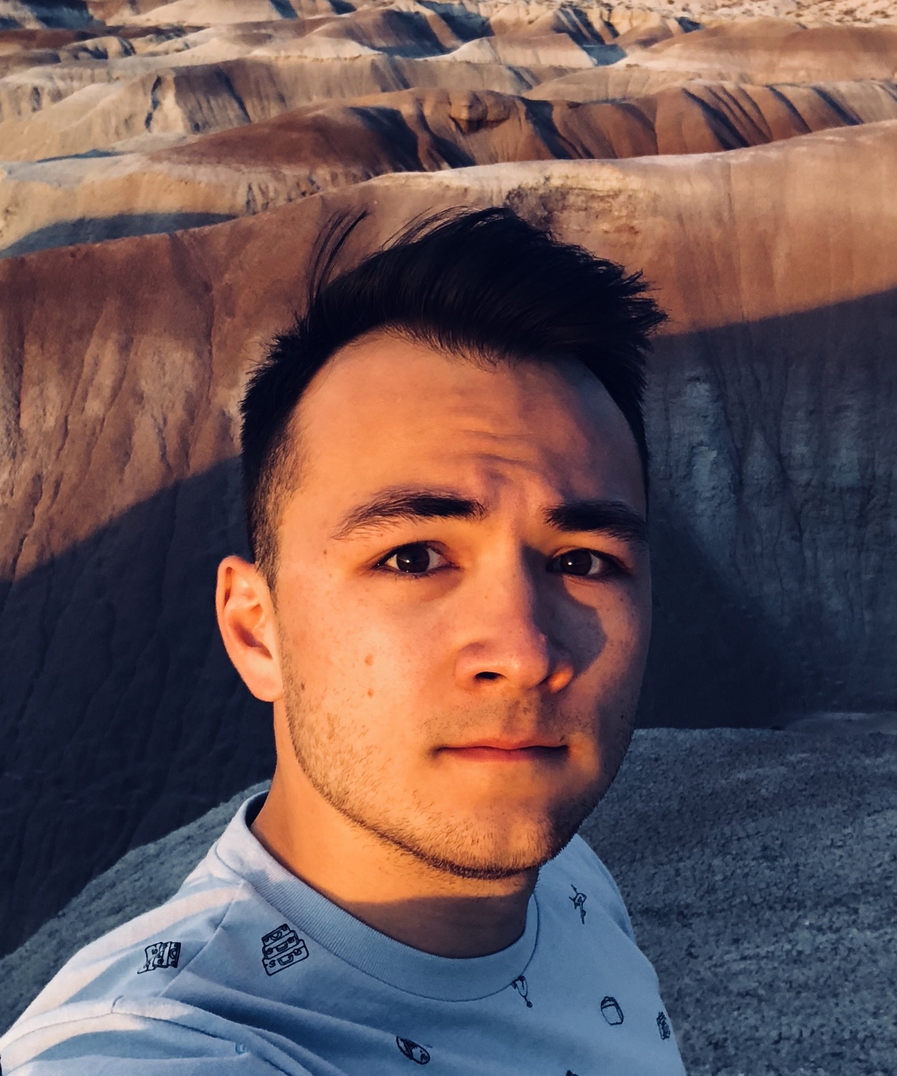
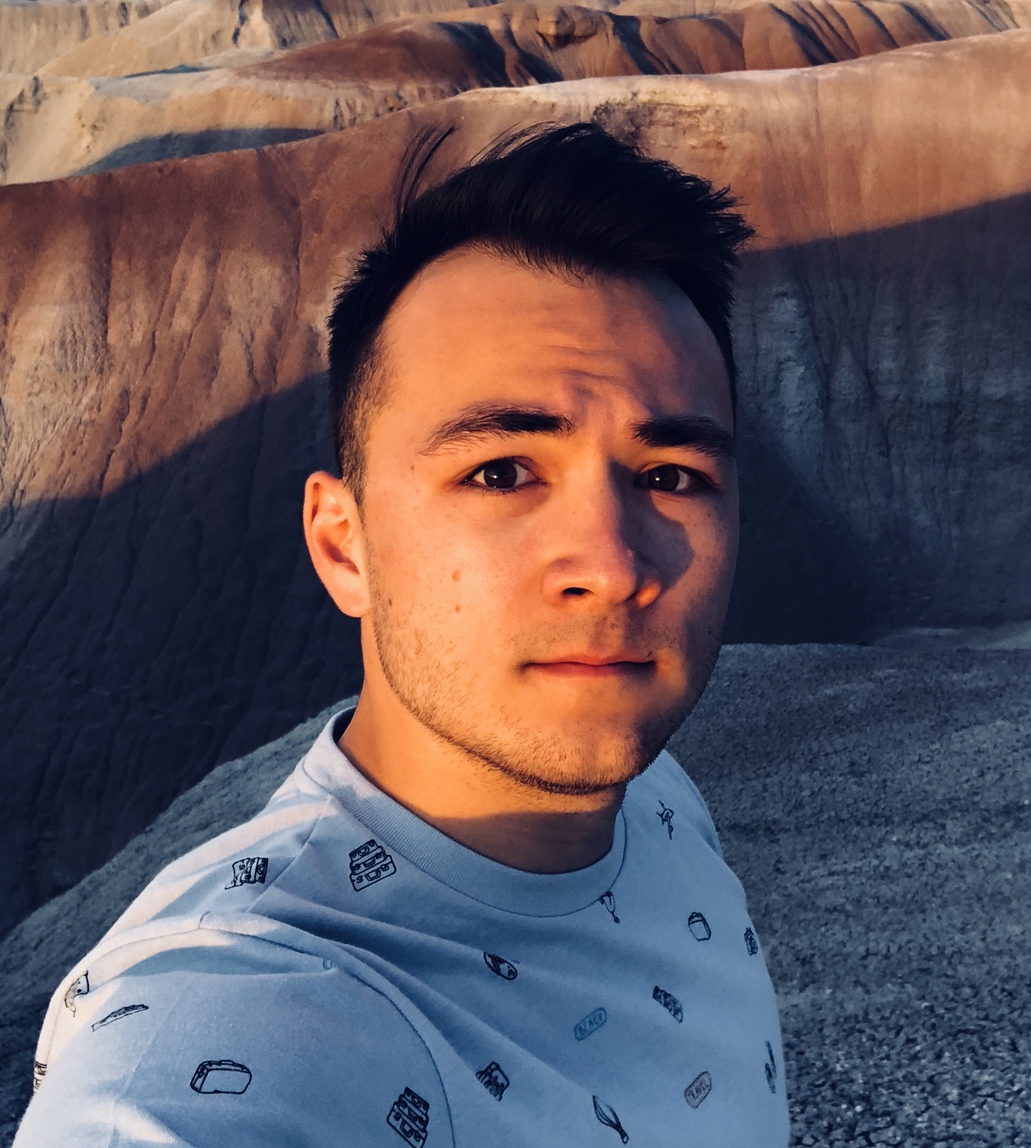
All pics attempt 2

diff --git a/index.html b/index.html
@@ -94,7 +94,7 @@
       <!-- Three -->
       <section id="three" class="spotlight style3 left">
         <span class="image fit main bottom"
-          ><img src="images/pic04.jpg" alt=""
+          ><img src="images/spacexchange1.jpg" alt=""
         /></span>
         <div class="content">
           <header>
